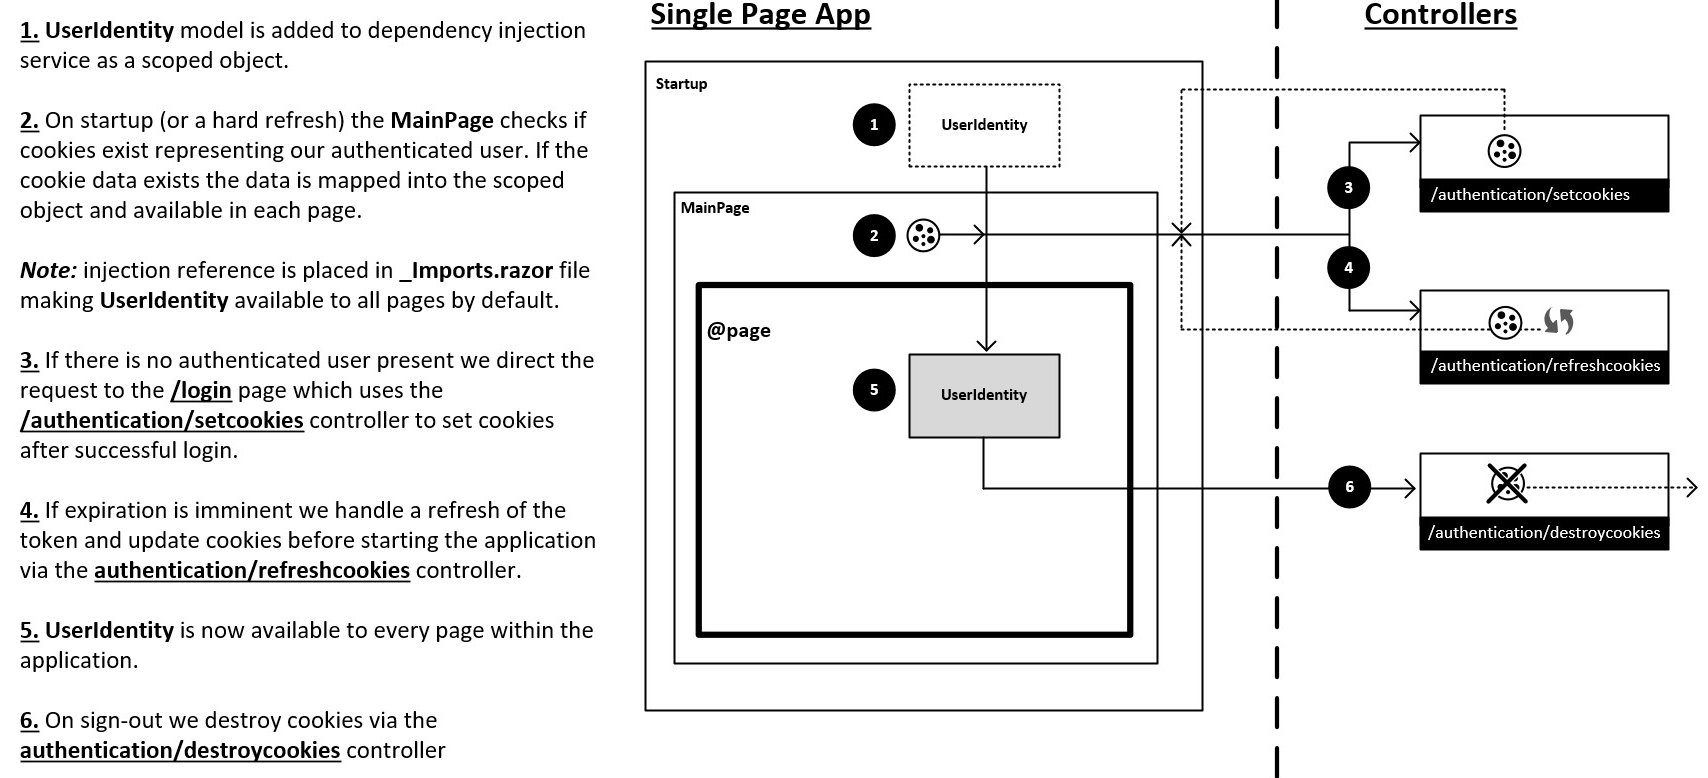
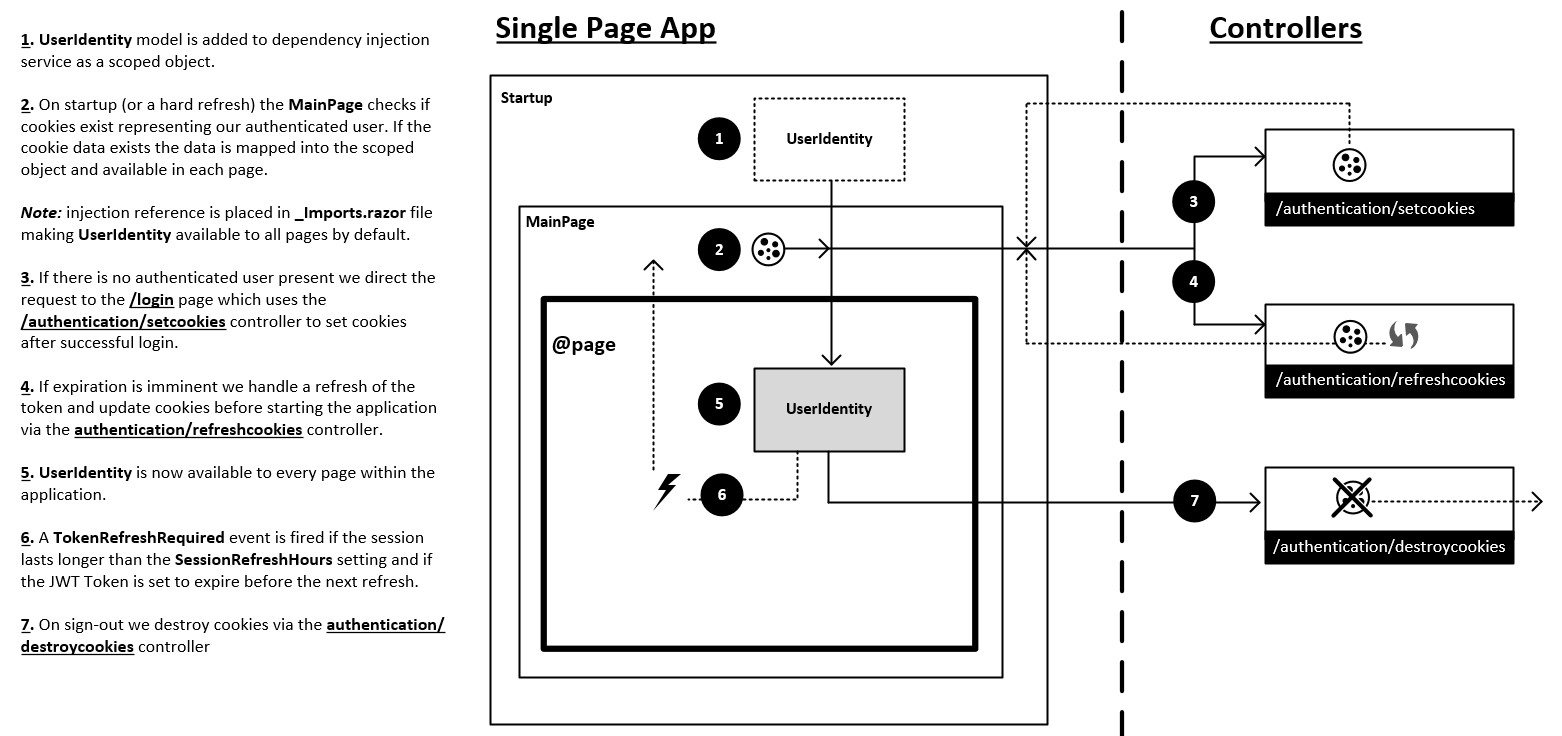
Updated diagrams and updated refresh event flow.

diff --git a/BlazorServerJWTAuth/Authentication/Models/UserIdentity.cs b/BlazorServerJWTAuth/Authentication/Models/UserIdentity.cs
@@ -7,6 +7,7 @@ using System.Threading.Tasks;
 
 namespace BlazorServerJWTAuth.Authentication.Models
 {
+
     /* NOTES:
     *
     *  1. It's important to implement IDisposable.
@@ -23,6 +24,7 @@ namespace BlazorServerJWTAuth.Authentication.Models
 
     public class UserIdentity : IDisposable
     {
+        public event EventHandler TokenRefreshRequired;
         private double SessionRefreshHours {get; set;}
         private DateTime TokenExpirationTime { get; set; }
         public string BearerToken { get; private set; }
@@ -31,6 +33,7 @@ namespace BlazorServerJWTAuth.Authentication.Models
         public string Email { get; private set; }
         public bool IsAuthenticated { get; private set; }
         public List<string> Roles { get; private set; }
+
 
         public UserIdentity()
         {
@@ -68,10 +71,12 @@ namespace BlazorServerJWTAuth.Authentication.Models
                 {
                     Console.WriteLine("Checking if token refresh is required...");
 
+                    //Check to see if our JWT token is going to expire before the next session refresh
                     if(TokenExpirationTime <= DateTime.UtcNow.AddHours(SessionRefreshHours))
                     {
+                        // Send an event to MainLayout to refresh the page and generate a new JWT token using the RefreshToken
                         Console.WriteLine(" > Refresh required...");
-
+                        TokenRefreshRequired?.Invoke(this, EventArgs.Empty);
                     }
                     else
                     {

diff --git a/BlazorServerJWTAuth/Models/Configuration/Settings.cs b/BlazorServerJWTAuth/Models/Configuration/Settings.cs
@@ -21,8 +21,7 @@ namespace BlazorServerJWTAuth.Models.Configuration
             RefreshTokenCookieName = configuration.GetSection("RefreshTokenCookieName").Value;
             RefreshTokenEncryptionPassPhrase = configuration.GetSection("RefreshTokenEncryptionPassPhrase").Value;
             CookieExpirationHours = Convert.ToDouble(configuration.GetSection("CookieExpirationHours").Value);
-            RefreshTokenHours = Convert.ToDouble(configuration.GetSection("RefreshTokenHours").Value);
-            RefreshSessionHours = Convert.ToDouble(configuration.GetSection("RefreshSessionHours").Value);
+            SessionRefreshHours = Convert.ToDouble(configuration.GetSection("SessionRefreshHours").Value);
         }
 
         public string IdentityServiceUri { get; set; }
@@ -34,7 +33,6 @@ namespace BlazorServerJWTAuth.Models.Configuration
         public string RefreshTokenCookieName { get; set; }
         public string RefreshTokenEncryptionPassPhrase { get; set; }
         public double CookieExpirationHours { get; set; }
-        public double RefreshTokenHours { get; set; }
-        public double RefreshSessionHours { get; set; }
+        public double SessionRefreshHours { get; set; }
     }
 }
